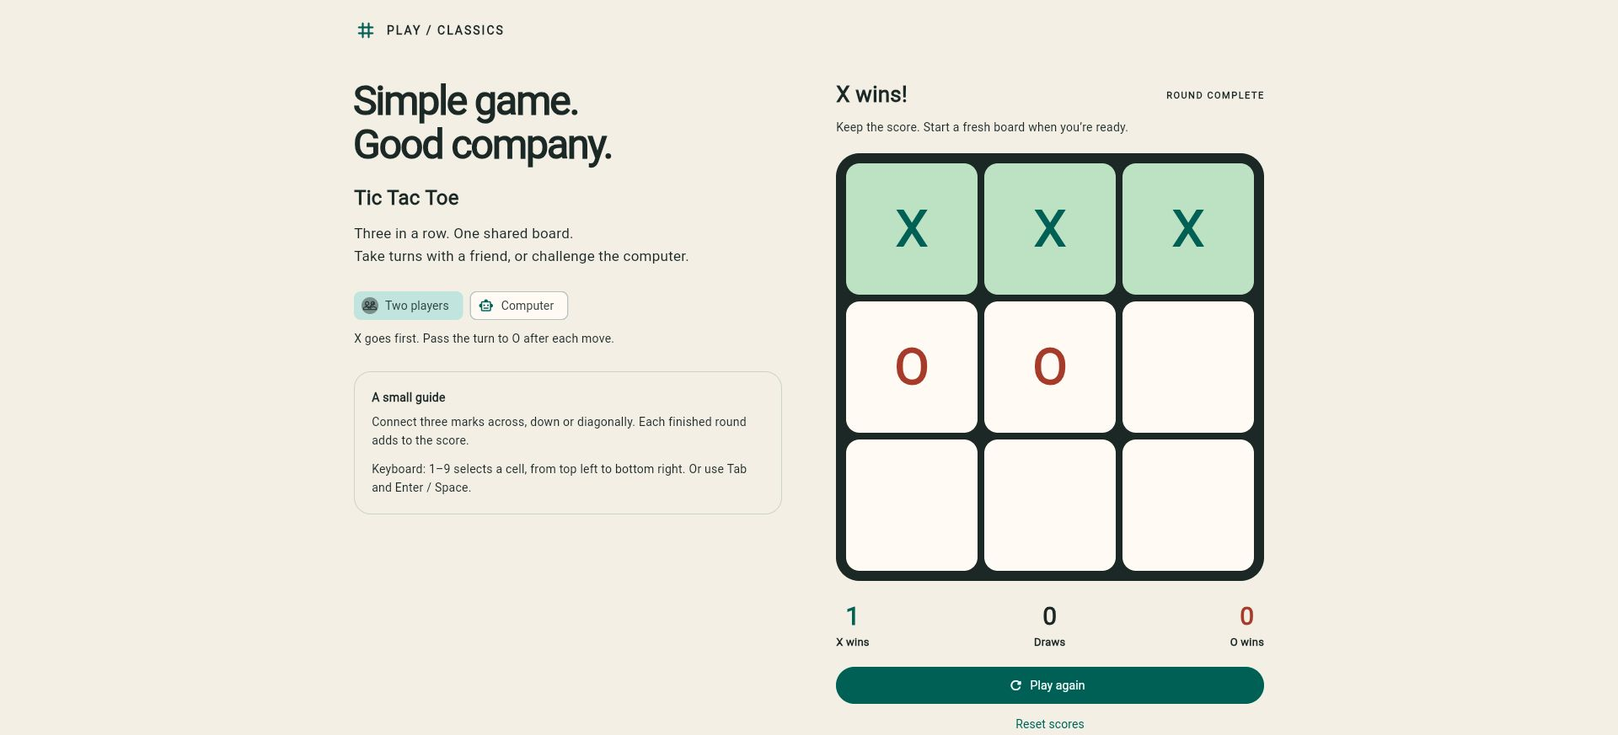
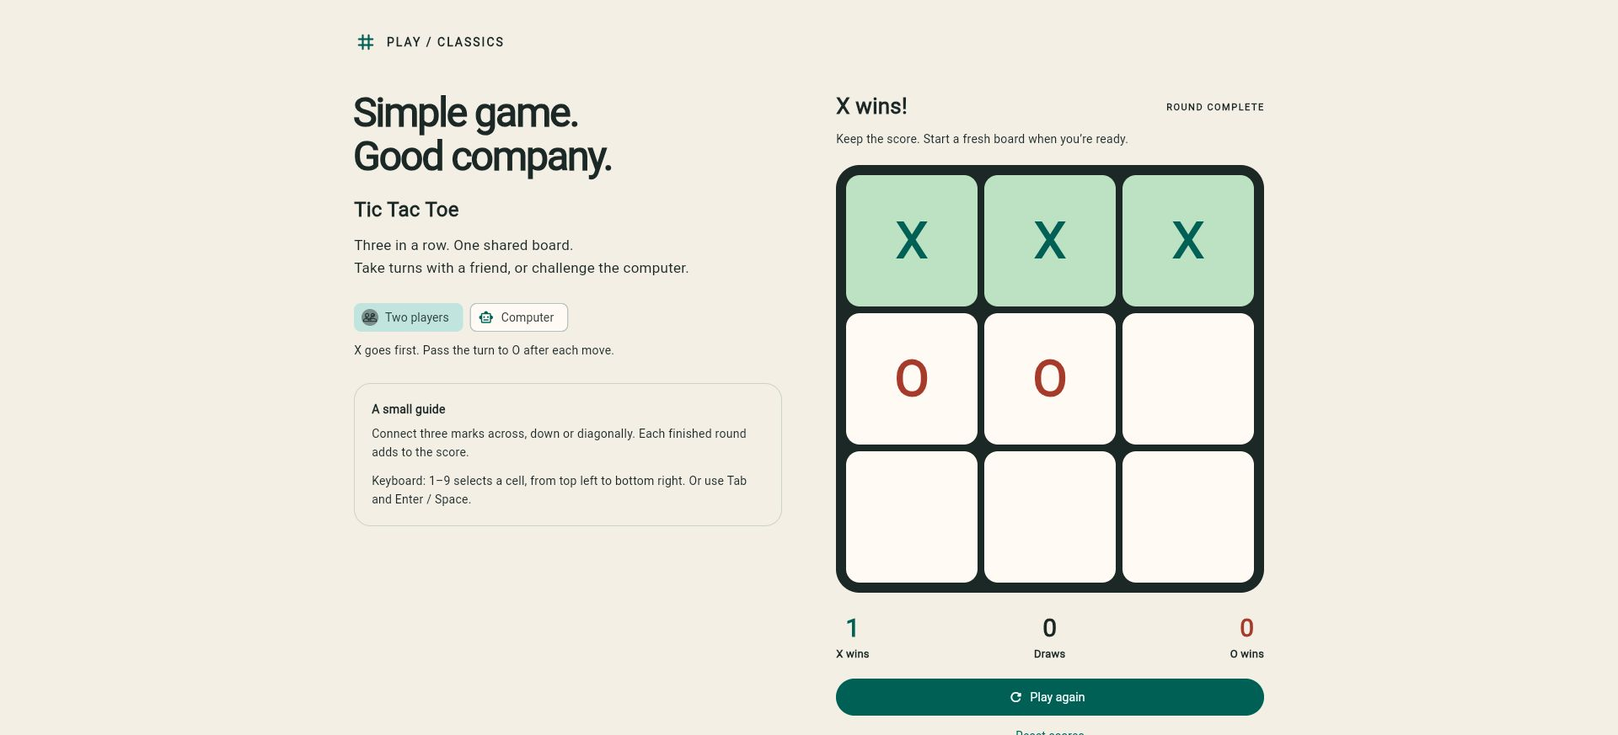
docs: prepare complete current Medium lesson and original cover
Replace the historical tutorial body with a progressive Portuguese lesson, eight code blocks and exactly five final exercises; include new real screenshots, generated cover provenance and exact dependency versions. Record the current upload blocker honestly.

diff --git a/docs/medium/article.pt-BR.html b/docs/medium/article.pt-BR.html
@@ -1,0 +1,213 @@
+<figure><img src="cover.png" alt="Ilustração conceitual: tabuleiro 3 por 3 com três X na primeira linha e dois O na segunda."></figure>
+<p><em>Ilustração conceitual criada para esta aula com geração de imagem por IA. As capturas de tela adiante mostram o aplicativo real.</em></p>
+<p>Um jogo pequeno é um ótimo laboratório para aprender a separar regras, estado e interface. Nesta aula, vamos explorar um jogo da velha funcional, entender por que uma jogada é aceita ou recusada e verificar esse comportamento com testes. A implementação foi atualizada em novembro de 2026; o material original de 2020 permanece preservado no histórico do repositório.</p>
+<h2>O que você vai aprender</h2>
+<p>Ao concluir, você deverá conseguir representar um tabuleiro sem depender do Flutter, reconhecer vitória e empate, proteger o estado contra jogadas inválidas, conectar as regras à interface e distinguir reiniciar uma rodada de zerar o placar. O resultado funciona com duas pessoas no mesmo dispositivo e oferece um adversário simples para praticar sozinho.</p>
+<figure><img src="../screenshots/desktop-win.jpg" alt="Jogo real no Chrome: X vence, linha destacada e placar X com uma vitória."></figure>
+<p><em>Captura real no Chrome: vitória de X, linha destacada e placar da sessão. O resultado permanece visível até iniciar outra rodada.</em></p>
+<h2>1. Prepare um ambiente reproduzível</h2>
+<p>A base desta revisão é <strong>Flutter 3.50.0, com Dart 3.14.0</strong>. A versão do Flutter está fixada em .fvmrc e no CI. Confira <code>flutter --version</code> antes de começar. O projeto usa null safety e exige Dart ≥3.14.0 e Flutter ≥3.50.0. Use uma cópia local desse SDK ou FVM; não é necessário atualizar o SDK de outros projetos.</p>
+<p>Abra o terminal e execute os comandos abaixo. Para estudar esta aula, clone o projeto completo: os trechos seguintes explicam partes reais dos arquivos e não substituem todos os arquivos de plataforma e interface.</p>
+<pre>git clone https://github.com/kleberandrade/tic-tac-toe-flutter.git
+cd tic-tac-toe-flutter
+flutter --version
+flutter pub get --enforce-lockfile
+flutter run -d chrome</pre>
+<p>Não há cadastro, Firebase, chave de API ou dados pessoais de exemplo. Para testar uma vitória local, selecione Two players e pressione 1, 4, 2, 5, 3. X deve completar a primeira linha. Use Play again para limpar o tabuleiro mantendo X com uma vitória.</p>
+<h2>2. Entenda os pacotes e suas versões</h2>
+<p>As dependências diretas atuais são o SDK Flutter, <strong>material_ui 1.11.1</strong>, flutter_test do mesmo SDK e <strong>flutter_lints 6.0.0</strong>. O arquivo pubspec.lock registra as versões exatas. A extração do Material para o pacote oficial exige importar package:material_ui/material_ui.dart; o import antigo package:flutter/material.dart está depreciado nesta versão do Flutter. Não basta atualizar o número do SDK e ignorar o aviso.</p>
+<pre>name: tictactoe
+description: An accessible Flutter tic-tac-toe classroom app with local and computer play.
+publish_to: none
+version: 2.0.0+2
+environment:
+  sdk: &#x27;&gt;=3.14.0 &lt;4.0.0&#x27;
+  flutter: &#x27;&gt;=3.50.0&#x27;
+dependencies:
+  flutter:
+    sdk: flutter
+  material_ui: ^1.11.1
+dev_dependencies:
+  flutter_test:
+    sdk: flutter
+  flutter_lints: ^6.0.0
+flutter:
+  uses-material-design: true</pre>
+<p>A auditoria consulta todos os pacotes hospedados do lockfile no pub.dev. Entre os transitivos atualizados estão clock 1.1.3, matcher 0.12.20, meta 1.19.0, stack_trace 1.12.2 e vector_math 2.4.4. material_ui também resolve cupertino_ui 1.1.7 e intl 0.20.3. flutter_lints resolve lints 6.1.0. A lista completa, com versão resolvida e mais recente, está em docs/medium/dependency-audit.json no repositório.</p>
+<p><strong>Duas exceções precisam ficar explícitas:</strong> Flutter 3.50.0 fixa material_color_utilities em 0.13.0, embora o registro ofereça 0.13.1; flutter_test fixa test_api em 0.7.14, embora exista 0.7.15. Essas dependências não foram forçadas por dependency_overrides nem tiveram o SDK alterado. Todas as demais versões hospedadas são comparadas ao registro. Atualizar com segurança significa respeitar também os contratos do SDK, e não apenas produzir um lockfile com números maiores.</p>
+<p>Para futuras revisões, use <code>flutter pub outdated</code>, confira o changelog das dependências diretas, execute <code>flutter pub upgrade --major-versions</code> e repita os testes. flutter_lints 6.0.0 já é a versão estável mais recente verificada nesta revisão. Os plugins custom_splash e share citados na aula antiga não são dependências deste aplicativo.</p>
+<h2>3. Defina as regras antes dos widgets</h2>
+<p>O tabuleiro tem nove casas. X começa; depois de cada jogada válida, o turno muda para O ou X. Uma casa ocupada não pode receber outra marca. A rodada termina quando uma das oito linhas está completa ou quando as nove casas estão ocupadas sem vencedor. Depois do término, nenhuma nova jogada pode modificar o tabuleiro ou pontuar novamente.</p>
+<p>Vamos usar índices de 0 a 8 no domínio. A interface aceita teclas de 1 a 9, na mesma ordem visual. Evite misturar o índice interno com o número apresentado ao jogador:</p>
+<pre>Domínio:       Teclado:
+0  1  2        1  2  3
+3  4  5        4  5  6
+6  7  8        7  8  9</pre>
+<p>O enum Mark restringe as marcas a X e O. Uma casa vazia contém null. O objeto Game guarda o estado e oferece operações pequenas. O tabuleiro exposto é uma cópia não modificável: a interface pode consultar as casas, mas só play pode aceitar uma jogada. Isso evita alterar a lista por fora e esquecer de verificar vitória ou atualizar o placar.</p>
+<h2>4. Leia o modelo completo, em Dart puro</h2>
+<p>O arquivo lib/domain/game.dart abaixo não importa Flutter. Observe a ordem em play: validar a coordenada, rejeitar estado indisponível, registrar a marca, verificar a linha, pontuar o desfecho e só então trocar o turno quando a rodada continuar. Uma coordenada fora da faixa gera RangeError; uma casa indisponível retorna false sem alterar o estado.</p>
+<pre>/// The only marks on a tic-tac-toe board. X always opens a round.
+enum Mark {
+  x,
+  o;
+  Mark get other =&gt; this == x ? o : x;
+  String get label =&gt; name.toUpperCase();
+}
+const _lines = [
+  [0, 1, 2],
+  [3, 4, 5],
+  [6, 7, 8],
+  [0, 3, 6],
+  [1, 4, 7],
+  [2, 5, 8],
+  [0, 4, 8],
+  [2, 4, 6],
+];
+/// A round and its session score. No Flutter, timers, network or persistence.
+class Game {
+  final List&lt;Mark?&gt; _cells = List.filled(9, null);
+  final Map&lt;Mark, int&gt; _wins = {Mark.x: 0, Mark.o: 0};
+  Mark _turn = Mark.x;
+  Mark? _winner;
+  List&lt;int&gt; _winningCells = const [];
+  int _draws = 0;
+  List&lt;Mark?&gt; get cells =&gt; List.unmodifiable(_cells);
+  Mark get turn =&gt; _turn;
+  Mark? get winner =&gt; _winner;
+  List&lt;int&gt; get winningCells =&gt; List.unmodifiable(_winningCells);
+  int get draws =&gt; _draws;
+  int wins(Mark mark) =&gt; _wins[mark]!;
+  bool get isDraw =&gt; _winner == null &amp;&amp; !_cells.contains(null);
+  bool get isOver =&gt; _winner != null || isDraw;
+  /// Invalid coordinates are programmer errors; unavailable moves are rejected.
+  bool play(int index) {
+    RangeError.checkValidIndex(index, _cells);
+    if (isOver || _cells[index] != null) return false;
+    _cells[index] = _turn;
+    _winningCells = _lineFor(_turn);
+    if (_winningCells.isNotEmpty) {
+      _winner = _turn;
+      _wins[_turn] = wins(_turn) + 1;
+    } else if (isDraw) {
+      _draws++;
+    } else {
+      _turn = _turn.other;
+    }
+    return true;
+  }
+  List&lt;int&gt; _lineFor(Mark mark) {
+    for (final line in _lines) {
+      if (line.every((i) =&gt; _cells[i] == mark)) return line;
+    }
+    return const [];
+  }
+  void nextRound() {
+    _cells.fillRange(0, 9, null);
+    _turn = Mark.x;
+    _winner = null;
+    _winningCells = const [];
+  }
+  void resetScores() {
+    _wins.updateAll((_, _) =&gt; 0);
+    _draws = 0;
+    nextRound();
+  }
+  /// A deterministic, casual opponent: win, block, center, then first free cell.
+  /// It is deliberately beatable, not a minimax or random opponent.
+  int? computerMove() {
+    if (isOver) return null;
+    for (final mark in [_turn, _turn.other]) {
+      for (final line in _lines) {
+        final empty = line.where((i) =&gt; _cells[i] == null).toList();
+        if (empty.length == 1 &amp;&amp;
+            line.where((i) =&gt; _cells[i] == mark).length == 2) {
+          return empty.single;
+        }
+      }
+    }
+    if (_cells[4] == null) return 4;
+    return _cells.indexOf(null);
+  }
+}</pre>
+<p>A lista _lines contém três linhas, três colunas e duas diagonais. _lineFor percorre essas combinações e usa every para conferir se todas as três casas têm a marca. Em uma vitória, _winningCells permite destacar a linha sem colocar cores no domínio. A decisão sobre a cor continua pertencendo à interface.</p>
+<p>Também há duas escalas de tempo: uma rodada é um tabuleiro; uma sessão é o placar acumulado. nextRound limpa apenas a rodada. resetScores zera vitórias e empates e começa outra rodada. X inicia novamente. Os números ficam somente em memória: fechar/recarregar o aplicativo ou mudar o modo reinicia a sessão.</p>
+<h2>5. Conecte o modelo à interface</h2>
+<p>A aplicação tem três arquivos principais: lib/domain/game.dart reúne regras e placar; lib/pages/game_page.dart apresenta e recebe ações; lib/main.dart configura a aplicação e o tema. O estado de uma partida pertence à sua página, sem singleton ou variáveis globais mutáveis. Para este escopo, setState é suficiente.</p>
+<p>A entrada e o tema usam o pacote Material atual. Este é o conteúdo de lib/main.dart:</p>
+<pre>import &#x27;package:material_ui/material_ui.dart&#x27;;
+import &#x27;pages/game_page.dart&#x27;;
+void main() =&gt; runApp(const MyApp());
+class MyApp extends StatelessWidget {
+  const MyApp({super.key});
+  @override
+  Widget build(BuildContext context) =&gt; MaterialApp(
+    debugShowCheckedModeBanner: false,
+    title: &#x27;Tic Tac Toe&#x27;,
+    theme: ThemeData(
+      useMaterial3: true,
+      colorScheme: ColorScheme.fromSeed(
+        seedColor: const Color(0xFF146B60),
+        surface: const Color(0xFFFFFCF5),
+      ),
+      scaffoldBackgroundColor: const Color(0xFFF4F1E8),
+      textTheme: ThemeData.light().textTheme.apply(
+        bodyColor: const Color(0xFF202D2B),
+        displayColor: const Color(0xFF202D2B),
+      ),
+      filledButtonTheme: FilledButtonThemeData(
+        style: FilledButton.styleFrom(minimumSize: const Size(48, 52)),
+      ),
+    ),
+    home: const GamePage(),
+  );
+}</pre>
+<p>Em GamePage, o manipulador abaixo encaminha a entrada ao domínio. A jogada do computador só acontece quando a jogada humana foi aceita, a rodada continua e é o turno de O. A verificação evita respostas após uma vitória e impede que clicar em casa ocupada gere outra jogada do computador.</p>
+<pre>void _play(int index) {
+    setState(() {
+      if (!_game.play(index)) return;
+      if (_computer &amp;&amp; !_game.isOver &amp;&amp; _game.turn == Mark.o) {
+        final reply = _game.computerMove();
+        if (reply != null) _game.play(reply);
+      }
+    });
+  }</pre>
+<p>O adversário é propositalmente simples e pode ser vencido: tenta completar uma linha, bloqueia uma ameaça imediata, escolhe o centro e depois a primeira casa livre. Não é Minimax e não usa sorteio. O código antigo usava <code>nextInt(list.length - 1)</code>, que excluía a última opção e falhava quando sobrava uma única casa. Nesta versão, computerMove retorna null quando a rodada terminou, e a última casa livre continua sendo uma opção válida.</p>
+<figure><img src="../screenshots/mobile-computer.jpg" alt="Jogo real em largura móvel: humano X no canto e computador O no centro."></figure>
+<p><em>Captura real no navegador em largura de celular. Modo de jogo, instrução de turno e tabuleiro usam uma coluna com rolagem. Isto não é um teste em telefone físico.</em></p>
+<p>A interface exibe turno, vitória ou empate sem obrigar o jogador a fechar um diálogo. A linha vencedora fica destacada e todas as casas são bloqueadas após o fim. Restart round / Play again mantém o placar; Reset scores o zera. Trocar entre Two players e Computer começa outra sessão. Selecionar novamente o modo ativo não apaga o resultado.</p>
+<p>Acessibilidade não se resume a cor. Cada casa informa linha, coluna e conteúdo; o resultado possui região semântica de anúncio; há foco visível e botões reais. Use Tab com Enter/Espaço ou teclas 1–9. O layout foi testado com largura de 320 pixels e texto a 200%. A descrição do estado continua compreensível sem distinguir o verde do vermelho. Uma sessão com leitor de tela ainda precisa de validação humana específica.</p>
+<h2>6. Verifique o comportamento antes de mudar a regra</h2>
+<p>Um teste útil descreve uma situação que o jogador perceberia. O exemplo abaixo pode entrar em test/game_example_test.dart. Ele comprova a vitória e o bloqueio da próxima jogada; não depende de detalhes de layout.</p>
+<pre>import &#x27;package:flutter_test/flutter_test.dart&#x27;;
+import &#x27;package:tictactoe/domain/game.dart&#x27;;
+void main() {
+  test(&#x27;X vence e a rodada deixa de aceitar jogadas&#x27;, () {
+    final game = Game();
+    for (final cell in [0, 3, 1, 4, 2]) {
+      expect(game.play(cell), isTrue);
+    }
+    expect(game.winner, Mark.x);
+    expect(game.winningCells, [0, 1, 2]);
+    expect(game.wins(Mark.x), 1);
+    expect(game.play(8), isFalse);
+    expect(game.wins(Mark.x), 1);
+  });
+}</pre>
+<p>A suíte do repositório testa as oito linhas para X e O, empate, alternância, coordenadas inválidas, casas ocupadas, lista protegida, bloqueio após o fim, reinício, placar e decisões do computador. Os testes de widgets incluem toques, teclado, modo de jogo, resultado visível e texto ampliado. Para um empate manual em Two players, reinicie e use 1, 2, 3, 5, 4, 6, 8, 7, 9.</p>
+<pre>dart format --output=none --set-exit-if-changed lib test tool
+flutter analyze --fatal-infos
+flutter test --coverage
+dart run tool/rules_example.dart
+flutter build web --no-wasm-dry-run</pre>
+<p>O exemplo de terminal exercita apenas o domínio. O build Web vai para build/web e deve ser servido por HTTP para conferir a versão de produção. O CI executa instalação com lockfile, formatação, análise, exemplo, testes e build. Consulte o README e docs/WORK_LOG.md para os resultados efetivamente observados e os limites nativos; não confunda compilação com teste físico. Android depende do SDK/JDK e das licenças aceitas pelo responsável. O projeto iOS exige iOS 15 ou superior.</p>
+<h2>Referências e continuidade</h2>
+<p>Código completo: <a href="https://github.com/kleberandrade/tic-tac-toe-flutter">github.com/kleberandrade/tic-tac-toe-flutter</a>. Autor: Kleber de Oliveira Andrade; licença MIT preservada. A edição de 2020 e seus links didáticos permanecem em <a href="https://github.com/kleberandrade/tic-tac-toe-flutter/blob/master/docs/original-project.md">docs/original-project.md</a> e no histórico Git, sem apresentar screenshots antigos como se fossem a versão atual.</p>
+<p>Para aprofundar: <a href="https://docs.flutter.dev/testing/overview">testes no Flutter</a>, <a href="https://dart.dev/null-safety">null safety no Dart</a> e a referência original sobre <a href="https://www.youtube.com/watch?v=trKjYdBASyQ">Minimax, do The Coding Train</a>. Cada material mantém sua autoria; o algoritmo não foi incorporado a este projeto.</p>
+<h2>Cinco exercícios para praticar</h2>
+<ol>
+<li><strong>Escolha de quem começa.</strong> Permita escolher X ou O antes da rodada. Critério: a opção aparece na interface, alternância e resultado continuam corretos, e há testes para ambos os jogadores iniciando. Defina se reiniciar preserva a escolha.</li>
+<li><strong>Desfazer a última jogada.</strong> Acrescente um histórico no domínio e um botão Desfazer. Critério: uma rodada em andamento recupera tabuleiro e turno sem modificar pontuação; em modo Computer, documente e teste se desfaz a dupla de jogadas. Teste histórico vazio e escolha explicitamente a política após o fim.</li>
+<li><strong>Adversário com Minimax.</strong> Troque a estratégia casual por uma função independente que avalie estados possíveis. Critério: o computador só escolhe casas livres e não perde contra nenhuma sequência legal de respostas. Faça uma verificação exaustiva, incluindo empates e terminal sem jogada.</li>
+<li><strong>Placar persistente.</strong> Crie uma interface de armazenamento e uma implementação local. Critério: reabrir restaura o placar; dados ausentes, inválidos ou falha de leitura têm comportamento definido. Teste primeiro com armazenamento em memória e mantenha o domínio livre de plugins.</li>
+<li><strong>Interface inclusiva com marcas próprias.</strong> Ofereça um tema de alto contraste e símbolos originais/licenciados. Critério: tamanho mínimo dos alvos, foco, teclado, texto ampliado e rótulos continuam funcionais; valide com leitor de tela e registre o dispositivo realmente utilizado. Não use personagens de terceiros sem autorização.</li>
+</ol>

diff --git a/README.md b/README.md
@@ -1,7 +1,7 @@
 # Tic Tac Toe · Flutter
 
-[![Flutter 3.41.9](https://img.shields.io/badge/Flutter-3.41.9-02569B?logo=flutter)](https://docs.flutter.dev/)
-[![Dart 3.11.5](https://img.shields.io/badge/Dart-3.11.5-0175C2?logo=dart)](pubspec.yaml)
+[![Flutter 3.50.0](https://img.shields.io/badge/Flutter-3.50.0-02569B?logo=flutter)](https://docs.flutter.dev/)
+[![Dart 3.14.0](https://img.shields.io/badge/Dart-3.14.0-0175C2?logo=dart)](pubspec.yaml)
 [![MIT](https://img.shields.io/badge/License-MIT-green)](LICENSE)
 [![Flutter checks](https://github.com/kleberandrade/tic-tac-toe-flutter/actions/workflows/flutter.yml/badge.svg?branch=master)](https://github.com/kleberandrade/tic-tac-toe-flutter/actions/workflows/flutter.yml)
 
@@ -11,7 +11,9 @@ A classroom game by **Kleber de Oliveira Andrade**, modernized with Material 3, 
 
 ## Requirements and setup
 
-The reproducible baseline is **Flutter 3.41.9 / Dart 3.11.5**, pinned in `.fvmrc` and CI. Use an SDK matching that release; FVM is optional. The manifest requires Dart >=3.11.0 <4.0.0 and Flutter >=3.41.9. Keep `pubspec.lock` committed. Runtime dependencies consist only of the Flutter SDK; Flutter lints and tests are development dependencies.
+The reproducible baseline is **Flutter 3.50.0 / Dart 3.14.0**, pinned in `.fvmrc` and CI. Use an SDK matching that release; FVM is optional. The manifest requires Dart >=3.14.0 <4.0.0 and Flutter >=3.50.0. Keep `pubspec.lock` committed. Runtime dependencies are the Flutter SDK and the official `material_ui` 1.11.1 package. Flutter lints 6.0.0 and SDK tests are development dependencies. Flutter 3.50 deprecates the old `package:flutter/material.dart` export; application and widget tests now import `package:material_ui/material_ui.dart`.
+
+All 27 hosted packages in the lockfile were compared with pub.dev on November 17, 2026. Twenty-five resolve to the latest stable registry version. Two are constrained by SDK pins: `material_color_utilities` 0.13.0 (registry 0.13.1) and `test_api` 0.7.14 (registry 0.7.15). No dependency override or SDK patch is used. See the [complete dependency audit](docs/medium/dependency-audit.json).
 
 ```sh
 git clone https://github.com/kleberandrade/tic-tac-toe-flutter.git
@@ -75,11 +77,11 @@ flutter build apk --debug
 
 The Web output is `build/web`; serve that directory over HTTP for release testing (for example `python3 -m http.server 8080 --directory build/web`). A Web build may download Flutter renderer/font resources on first load, so fully offline hosting requires additional asset configuration. This task does not deploy or publish the game.
 
-The local Xcode 27.2 / Flutter 3.41.9 combination failed the universal simulator framework architecture check in `flutter build ios --simulator --debug`. A concrete **arm64 simulator build passed** using the command below (select an available simulator from `xcrun simctl list devices available`). This was a build only, not an iOS runtime test:
+The local Xcode 27.2 / previous Flutter 3.41.9 combination failed the universal simulator framework architecture check in `flutter build ios --simulator --debug`. A concrete **arm64 simulator build also passed with Flutter 3.50.0** using the command below (select an available simulator from `xcrun simctl list devices available`). This was a build only, not an iOS runtime test:
 
 ```sh
 xcodebuild -project ios/Runner.xcodeproj -scheme Runner -configuration Debug \
-  -sdk iphonesimulator -destination 'platform=iOS Simulator,name=iPhone 17 Pro' \
+  -sdk iphonesimulator -destination 'generic/platform=iOS Simulator' \
   -derivedDataPath /tmp/tictactoe-xcode-build ARCHS=arm64 ONLY_ACTIVE_ARCH=YES build
 ```
 
@@ -93,7 +95,7 @@ Android now uses the Flutter plugin DSL, Kotlin 2.2.20, AGP 8.11.1 and Gradle 8.
 
 ## Tutorial, credits and classroom extensions
 
-The [original Portuguese lesson](https://medium.com/@kleberandrade/criando-um-jogo-da-velha-em-flutter-50347537c926) teaches the 2020 implementation. See [its modernization notes](docs/medium-update.pt-BR.md) and [preserved original project material](docs/original-project.md), including historical screenshots and links. Those screenshots illustrate the earlier UI. Third-party teaching links remain attributed to their authors.
+The [updated Portuguese lesson](https://medium.com/@kleberandrade/criando-um-jogo-da-velha-em-flutter-50347537c926) accompanies this project. The [complete rewritten lesson source](docs/medium/article.pt-BR.html) includes a new conceptual cover, current browser screenshots, copyable code and exactly five concluding exercises. See the publication status below; the 2020 edition remains archived in this repository. See [its modernization notes](docs/medium-update.pt-BR.md) and [preserved original project material](docs/original-project.md), including historical screenshots and links. Those screenshots illustrate the earlier UI. Third-party teaching links remain attributed to their authors.
 
 Turn indication and session scores complete two original classroom challenges. Further exercises: persist scores with explicit tests, implement minimax, add a share action using a maintained package, or replace marks with original/licensed artwork while keeping semantic labels. The original `custom_splash` and `share` recommendations are historical references, not dependencies of this version. Avoid copyrighted character art without permission.
 

diff --git a/docs/WORK_LOG.md b/docs/WORK_LOG.md
@@ -16,3 +16,12 @@
 - Android build was not attempted because doctor reports unaccepted licenses; no terms were accepted. iOS simulator retry passed the deployment-target check but Flutter/Xcode failed its universal-framework architecture verification even though lipo info lists both architectures. Trying a concrete arm64 simulator build separately; no global SDK edits.
 - Concrete iOS arm64 simulator compilation succeeded with Xcode (`ARCHS=arm64 ONLY_ACTIVE_ARCH=YES`, selected available iPhone 17 Pro simulator). Documented that reproducible command and the separate failing universal Flutter command. No simulator runtime or physical-device claim is made.
 - Added the standalone example to CI. Analyzer caught `print` in the command-line example; replaced it with stdout writes and rechecked.
+
+## Full lesson and dependency refresh (November 17, 2026)
+
+- User requested a complete Medium rewrite, a new cover/current screenshots, improved teaching/code and exactly five final exercises, plus updating every package and reflecting actual versions in the lesson.
+- Verified Flutter stable and tag 3.50.0 both resolve to ab2912035e160d9cad6306df307576da6128ebdb; isolated SDK reports Dart 3.14.0. Updated SDK constraints, FVM and CI. Migrated deprecated Flutter Material exports to official material_ui 1.11.1, enabled the SDK-generated platform/build analyzer exclusions and regenerated the lockfile.
+- Audited all 27 hosted packages against pub.dev. Twenty-five resolve to latest registry versions; material_color_utilities 0.13.0 and test_api 0.7.14 are pinned by Flutter/flutter_test (registry 0.13.1 and 0.7.15). No overrides or SDK patches. flutter_lints 6.0.0 is already latest.
+- Analyzer, 23 tests, Web release build, exact article test snippet and concrete arm64 iOS simulator compilation passed on Flutter 3.50.0. Captured fresh desktop/mobile Chrome screenshots; no physical-device or screen-reader claim.
+- Replaced the lesson body with a progressive Portuguese guide and eight copyable code blocks, preserving title, authorship and article URL. Corrected Medium's automatic syntax-language guesses to Bash, YAML, Plain Text, Dart and Shell. Original material remains archived in Git/docs.
+- Generated a new conceptual cover with the built-in image tool; it depicts a legal X win and is clearly labeled as illustration, distinct from screenshots. File upload was initially blocked by the extension's local-file permission; asked for authorization. User authorized enabling it, but browser policy blocks chrome://extensions, so requested manual enabling rather than bypassing policy. Text/code draft is saved; image publishing is pending that step.

diff --git a/docs/medium-update.pt-BR.md b/docs/medium-update.pt-BR.md
@@ -8,3 +8,9 @@
 - Imagens, explicações e links da edição de 2020 foram preservados e identificados como material histórico. As recomendações antigas `custom_splash` e `share` não são apresentadas como dependências atuais. Links de terceiros não foram editados.
 - O editor converteu hífens de comandos em travessões no primeiro paste; foram corrigidos com formatação de código e verificados no texto publicado: `flutter pub get --enforce-lockfile`, `flutter analyze --fatal-infos`, `flutter test --coverage` e `nextInt(list.length - 1)`.
 - Nenhuma newsletter, e-mail ou mensagem para seguidores foi enviada. Não houve bloqueio editorial, paywall ou CAPTCHA nesta operação.
+
+## Revisão completa solicitada pelo autor
+
+A nova versão foi reescrita integralmente no editor, com seis etapas didáticas, modelo completo, entrada/tema, adaptador de jogadas, teste executado e oito blocos de código com linguagens configuradas corretamente. Termina com exatamente cinco exercícios: escolha de quem começa, desfazer, Minimax, persistência e acessibilidade com marcas próprias. As versões Flutter 3.50.0, Dart 3.14.0, material_ui 1.11.1, flutter_lints 6.0.0 e transitivos relevantes aparecem no texto; as duas restrições do SDK estão explícitas.
+
+A capa nova é uma ilustração por IA identificada como tal. As duas capturas foram refeitas no build com os pacotes atuais. Fonte, ativos e auditoria completa estão em `docs/medium/`. O rascunho está salvo no Medium, mas a publicação integral aguarda concluir o envio das imagens: a extensão informou falta de acesso a arquivos locais; o autor autorizou habilitar, porém a política do navegador bloqueou `chrome://extensions`. Foi solicitado habilitar manualmente; nenhuma alteração de permissão foi feita pelo agente. Não confundir a seção inicial publicada na primeira rodada com a revisão integral ainda em rascunho.
